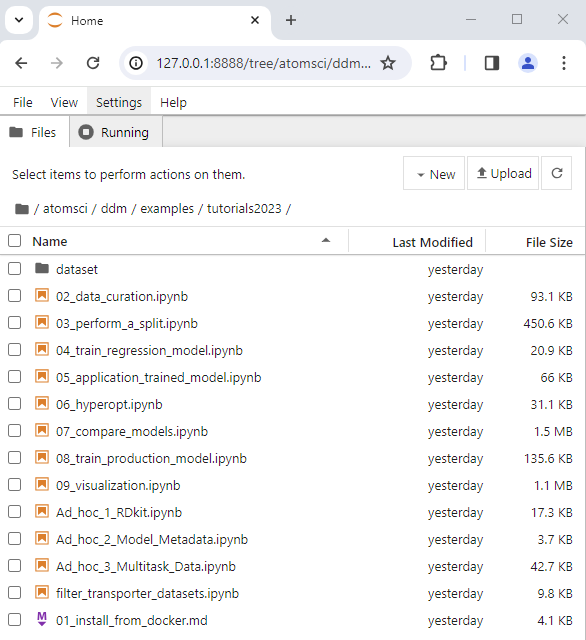
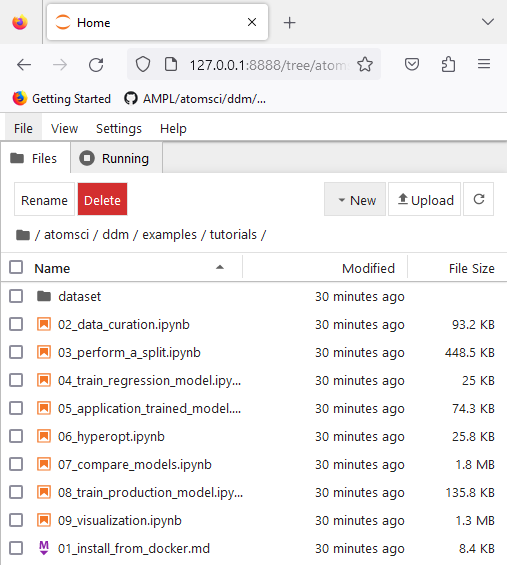
updated notebooks per feedback, first checkin

diff --git a/atomsci/ddm/examples/tutorials/01_install_from_docker.md b/atomsci/ddm/examples/tutorials/01_install_from_docker.md
@@ -143,7 +143,7 @@ and select `atomsci-env` as the run kernel
 
 ### Save work from Docker Jupyter
 
-Docker container is stateless. Once you exit, the work will not be kept. There are a couple of ways to save your changes:
+Docker container is stateless. Once you exit, the work will not be persist. There are a couple of ways to save your changes:
 
 1) Use the browser Jupyter. Use `File` -> `Download` to download the file(s).
 
@@ -168,12 +168,12 @@ docker run -it -p 8888:8888 -v ~:/home atomsci-ampl # <local_folder> -> `~`, <di
 ```
 root@d8ae116b2a83:/AMPL# pwd
 /AMPL
-root@d8ae116b2a83:/AMPL# cp atomsci/ddm/examples/tutorials2023/01_install_from_docker.md /home
+root@d8ae116b2a83:/AMPL# cp atomsci/ddm/examples/01_install_from_docker.md /home
 ```
 
 * The file(s) will be in <local_folder>
 
-### Code examples:
+### Code examples
 
 The **[AMPL](https://github.com/ATOMScience-org/AMPL)** code is in:
 
@@ -186,7 +186,7 @@ http://127.0.0.1:<port_number>/tree/AMPL/atomsci/ddm/
 The tutorials examples are in:
 
 ```
-http://127.0.0.1:<port_number>/tree/AMPL/atomsci/ddm/examples/tutorials2023
+http://127.0.0.1:<port_number>/tree/AMPL/atomsci/ddm/examples/
 ```
 
 ![Browse tutorials](../../docs/source/_static/img/01_install_from_docker_files/tutorial_tree.png)
@@ -211,7 +211,7 @@ docker cp <container_id>:source_path dest_path # copy from container to local
 
 * Problem with token
 
-If you try to connect the Jupyter Notebook URL but got a prompt for password or token. From the docker terminal, type in
+If you try to connect the Jupyter Notebook URL, but got a prompt for password or token, You can go to the docker terminal, type in
 
 ```
 jupyter server list
@@ -222,3 +222,7 @@ jupyter server list
 And copy the string after `token=` and  paste the token to log in
 
 ![Localhost Token](../../docs/source/_static/img/01_install_from_docker_files/localhost_token.png)
+
+Welcome to the ATOM Modeling PipeLine now that you have installed Docker! You are ready to use the AMPL Tutorials on your journey to build a machine learning model. 
+
+To kick-start the Tutorial series, check out **Tutorial 2, "Data Curation"**, to learn how to curate a dataset that will be used throughout the Tutorial series.
